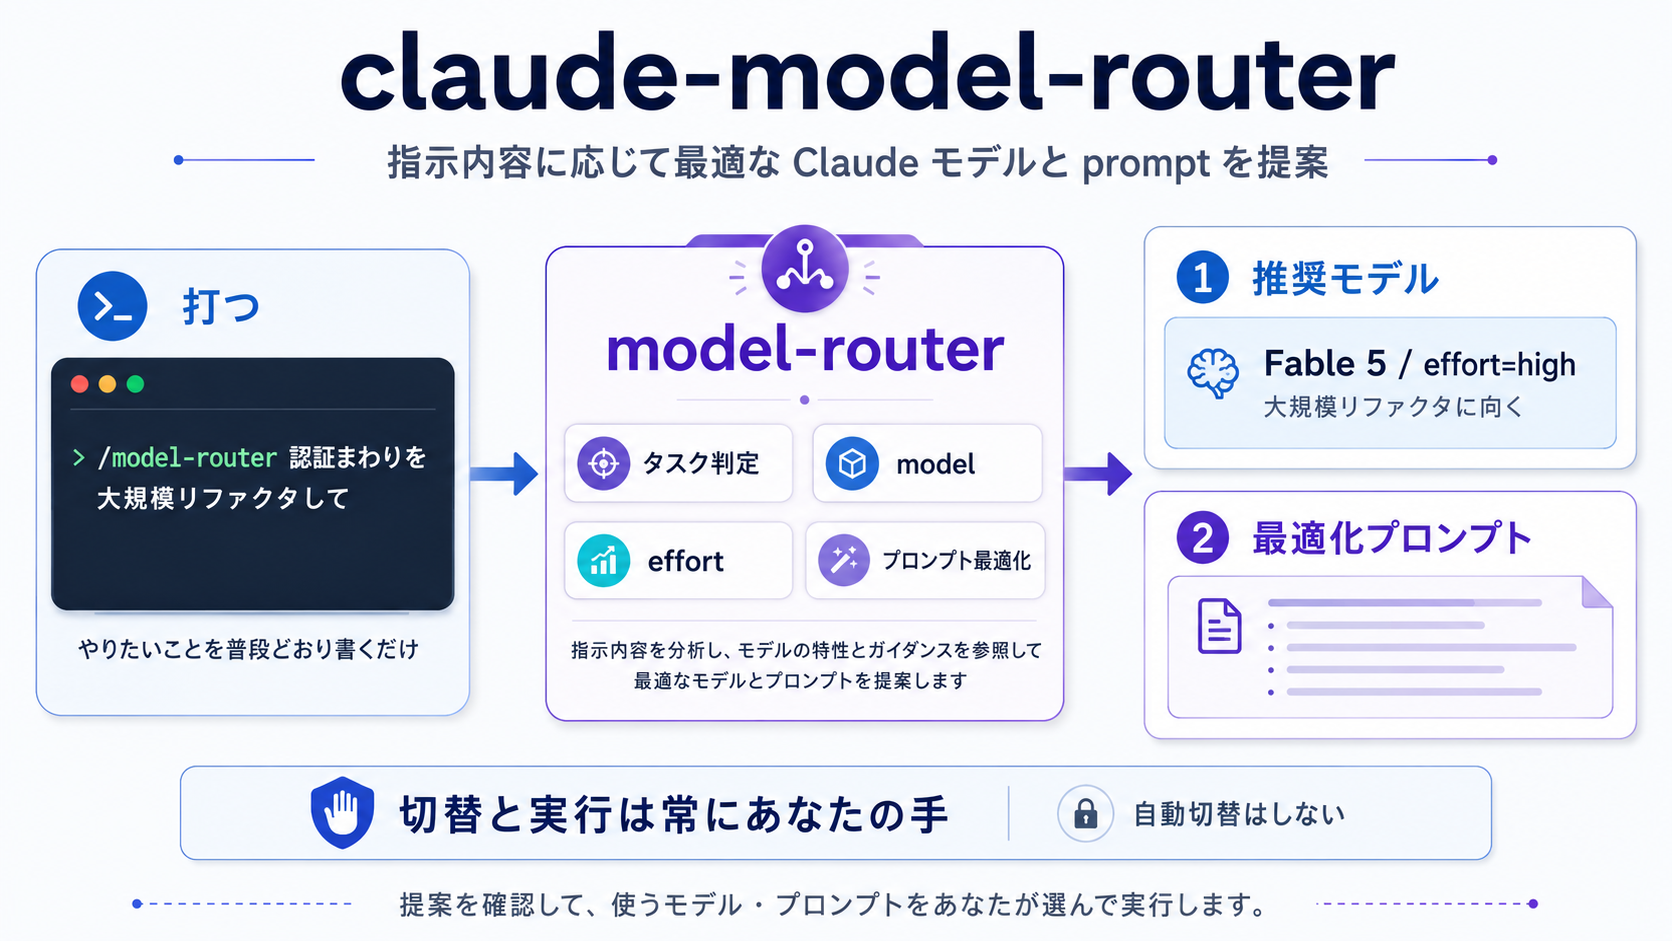
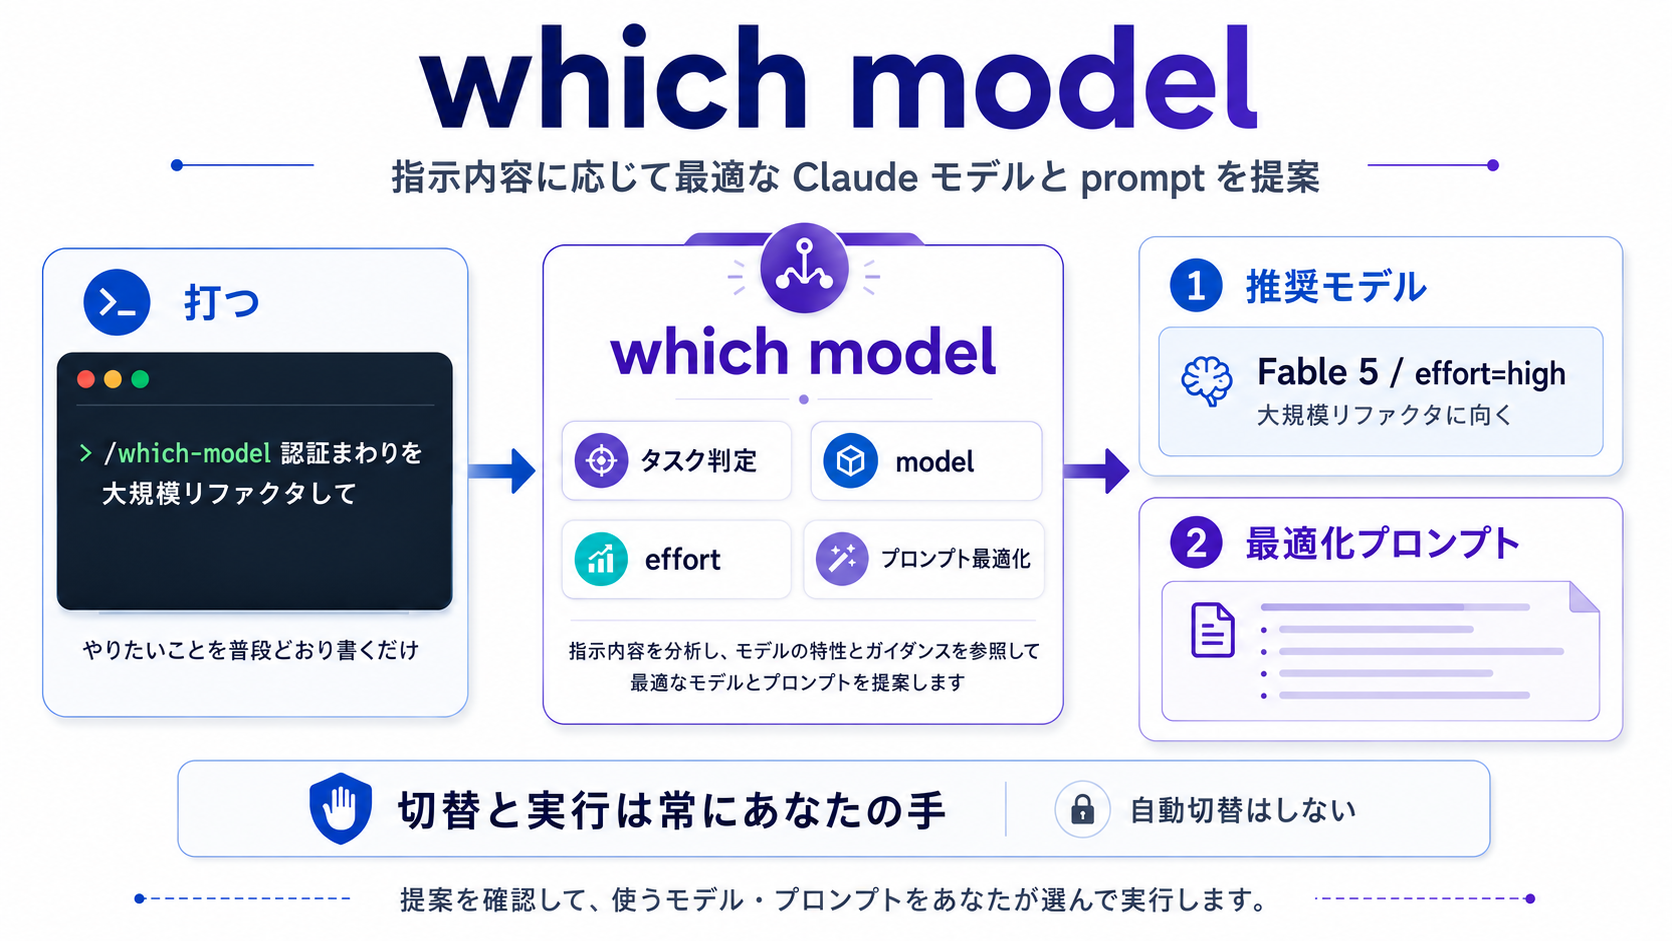
Finish which-model rename: fix stale copy and swap hero image
- README: reword the "router" disclaimer for the new name
- CLAUDE.md: "モデルルーティング" → "モデル選定ガイド"
- Replace hero-overview.png with the which-model version

diff --git a/README.md b/README.md
@@ -299,7 +299,7 @@ All `[Official]` claims are backed by docs/ai-model-guides/01_sources_evidence.m
 > `[Official]` タグの範囲で公式ドキュメントに基づきますが、本 skill 自体は公式のものでは
 > ありません。本ライセンスは商標の使用権を付与しません（Apache-2.0 §6）。
 >
-> **名前に "router" とありますが、モデルを自動で切り替えることはしません。** 現在の
+> **「どのモデルか（which model）」を選ぶための skill ですが、モデルを自動で切り替えることはしません。** 現在の
 > Claude Code の仕様上それはできず、また設計としても切替はユーザーの手動操作に委ねています。
 > この skill がするのは「どのモデルが最適かの提示」と「そのモデル向けプロンプトの最適化」まで
 > で、`/model` での切替と実行はあなたが行います。

diff --git a/CLAUDE.md b/CLAUDE.md
@@ -4,7 +4,7 @@
 which-model skill 自体の動作指示（SKILL.md）とは別物です。
 
 > 注記：README.md 付録の「CLAUDE.md 追記スニペット」は、この skill を導入した*先*の
-> プロジェクトでモデルルーティングを常時参照させるための任意スニペットであり、非推奨とされています。
+> プロジェクトでモデル選定ガイドを常時参照させるための任意スニペットであり、非推奨とされています。
 > 本ファイルはそれとは無関係で、このリポジトリ自体を編集する開発規約です。混同しないでください。
 
 ## 正本と同期
